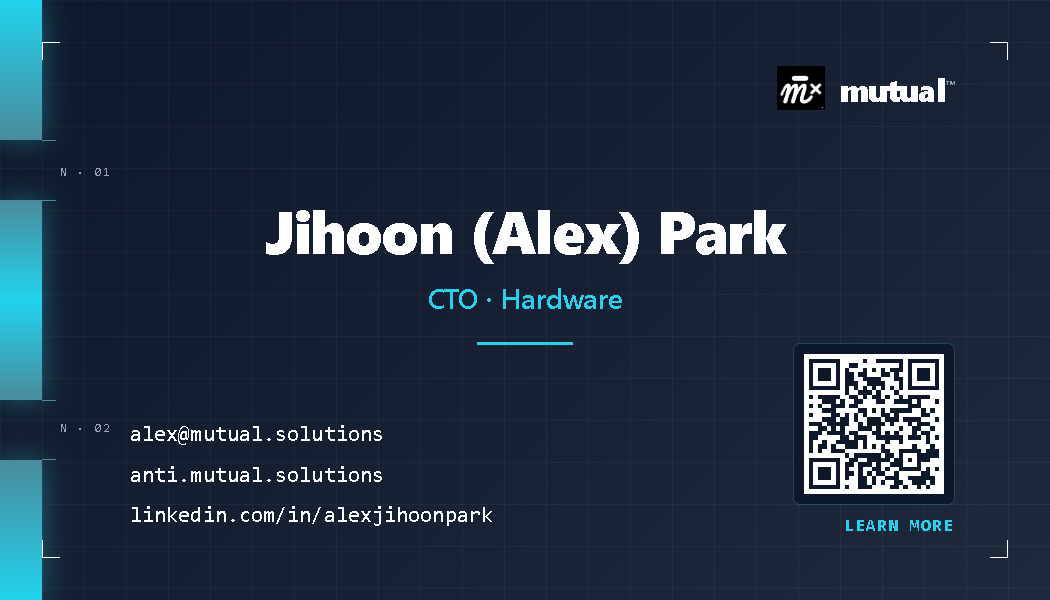
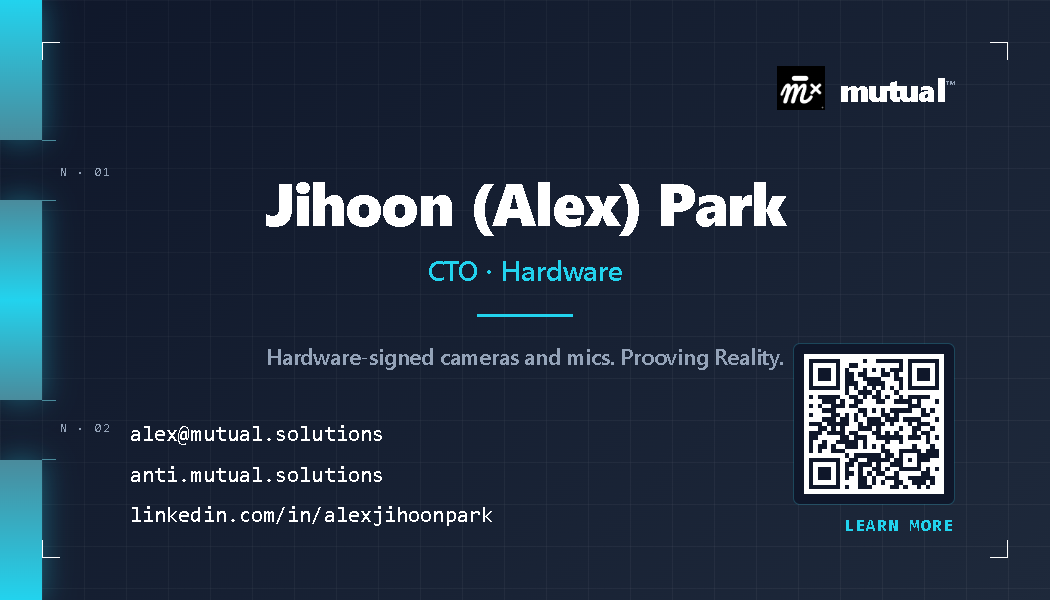
Lab Edge · re-add English slogan (Hardware-signed cameras and mics.)
User asked to keep a one-liner on the English side. Centered under the
divider:

  "Hardware-signed cameras and mics. Prooving Reality."

Korean back stays slogan-free.

Changed region(s): [[0.2438, 0.3, 0.7619, 0.54], [0.2438, 0.57, 0.7314, 0.63]]

diff --git a/.canva-build/v-tech-edge-capture-front-alex.html b/.canva-build/v-tech-edge-capture-front-alex.html
@@ -28,11 +28,12 @@ html,body{width:1050px;height:600px;background:#020617;font-family:'Inter','Sego
     <div style="font-weight:800;font-size:32px;letter-spacing:-0.8px;color:#fff">mutual<span style="font-size:13px;vertical-align:super;color:#94a3b8;font-weight:500">™</span></div>
   </div>
 
-  <!-- name block (English — centered, no slogan) -->
-  <div style="position:absolute;top:200px;left:0;right:0;text-align:center;z-index:2">
+  <!-- name block (English — centered, slogan on English side) -->
+  <div style="position:absolute;top:172px;left:0;right:0;text-align:center;z-index:2">
     <div style="font-weight:800;font-size:60px;letter-spacing:-1.8px;color:#fff;line-height:1">Jihoon (Alex) Park</div>
     <div style="margin-top:18px;font-weight:600;font-size:28px;color:#22d3ee;letter-spacing:-0.3px">CTO · Hardware</div>
     <div style="margin:26px auto 0;width:96px;height:3px;background:#22d3ee"></div>
+    <div style="margin-top:24px;padding:0 96px;font-weight:500;font-size:22px;color:#94a3b8;letter-spacing:-0.2px;line-height:1.4;font-family:'Playfair Display','Georgia','Times New Roman',serif;">Hardware-signed cameras and mics. Prooving Reality.</div>
   </div>
 
   <!-- contact mono block (URLs/emails are language-neutral identifiers) -->

diff --git a/.canva-build/v-tech-edge-fek1-front-alex.html b/.canva-build/v-tech-edge-fek1-front-alex.html
@@ -28,11 +28,12 @@ html,body{width:1050px;height:600px;background:#020617;font-family:'Inter','Sego
     <div style="font-weight:800;font-size:32px;letter-spacing:-0.8px;color:#fff">mutual<span style="font-size:13px;vertical-align:super;color:#94a3b8;font-weight:500">™</span></div>
   </div>
 
-  <!-- name block (English — centered, no slogan) -->
-  <div style="position:absolute;top:200px;left:0;right:0;text-align:center;z-index:2">
+  <!-- name block (English — centered, slogan on English side) -->
+  <div style="position:absolute;top:172px;left:0;right:0;text-align:center;z-index:2">
     <div style="font-weight:800;font-size:60px;letter-spacing:-1.8px;color:#fff;line-height:1">Jihoon (Alex) Park</div>
     <div style="margin-top:18px;font-weight:600;font-size:28px;color:#22d3ee;letter-spacing:-0.3px">CTO · Hardware</div>
     <div style="margin:26px auto 0;width:96px;height:3px;background:#22d3ee"></div>
+    <div style="margin-top:24px;padding:0 96px;font-weight:500;font-size:22px;color:#94a3b8;letter-spacing:-0.2px;line-height:1.4;font-family:'Playfair Display','Georgia','Times New Roman',serif;">Hardware-signed cameras and mics. Prooving Reality.</div>
   </div>
 
   <!-- contact mono block (URLs/emails are language-neutral identifiers) -->

diff --git a/.canva-build/v-tech-edge-capture-front-yejun.html b/.canva-build/v-tech-edge-capture-front-yejun.html
@@ -28,11 +28,12 @@ html,body{width:1050px;height:600px;background:#020617;font-family:'Inter','Sego
     <div style="font-weight:800;font-size:32px;letter-spacing:-0.8px;color:#fff">mutual<span style="font-size:13px;vertical-align:super;color:#94a3b8;font-weight:500">™</span></div>
   </div>
 
-  <!-- name block (English — centered, no slogan) -->
-  <div style="position:absolute;top:200px;left:0;right:0;text-align:center;z-index:2">
+  <!-- name block (English — centered, slogan on English side) -->
+  <div style="position:absolute;top:172px;left:0;right:0;text-align:center;z-index:2">
     <div style="font-weight:800;font-size:60px;letter-spacing:-1.8px;color:#fff;line-height:1">Yejun Jang</div>
     <div style="margin-top:18px;font-weight:600;font-size:28px;color:#22d3ee;letter-spacing:-0.3px">CEO · AI & Security</div>
     <div style="margin:26px auto 0;width:96px;height:3px;background:#22d3ee"></div>
+    <div style="margin-top:24px;padding:0 96px;font-weight:500;font-size:22px;color:#94a3b8;letter-spacing:-0.2px;line-height:1.4;font-family:'Playfair Display','Georgia','Times New Roman',serif;">Hardware-signed cameras and mics. Prooving Reality.</div>
   </div>
 
   <!-- contact mono block (URLs/emails are language-neutral identifiers) -->

diff --git a/.canva-build/v-tech-edge-fek1-front-yejun.html b/.canva-build/v-tech-edge-fek1-front-yejun.html
@@ -28,11 +28,12 @@ html,body{width:1050px;height:600px;background:#020617;font-family:'Inter','Sego
     <div style="font-weight:800;font-size:32px;letter-spacing:-0.8px;color:#fff">mutual<span style="font-size:13px;vertical-align:super;color:#94a3b8;font-weight:500">™</span></div>
   </div>
 
-  <!-- name block (English — centered, no slogan) -->
-  <div style="position:absolute;top:200px;left:0;right:0;text-align:center;z-index:2">
+  <!-- name block (English — centered, slogan on English side) -->
+  <div style="position:absolute;top:172px;left:0;right:0;text-align:center;z-index:2">
     <div style="font-weight:800;font-size:60px;letter-spacing:-1.8px;color:#fff;line-height:1">Yejun Jang</div>
     <div style="margin-top:18px;font-weight:600;font-size:28px;color:#22d3ee;letter-spacing:-0.3px">CEO · AI & Security</div>
     <div style="margin:26px auto 0;width:96px;height:3px;background:#22d3ee"></div>
+    <div style="margin-top:24px;padding:0 96px;font-weight:500;font-size:22px;color:#94a3b8;letter-spacing:-0.2px;line-height:1.4;font-family:'Playfair Display','Georgia','Times New Roman',serif;">Hardware-signed cameras and mics. Prooving Reality.</div>
   </div>
 
   <!-- contact mono block (URLs/emails are language-neutral identifiers) -->

diff --git a/.canva-build/v-tech-edge-dual-front-alex.html b/.canva-build/v-tech-edge-dual-front-alex.html
@@ -26,11 +26,12 @@ html,body{width:1050px;height:600px;background:#0f172a;font-family:'Inter','Sego
     <div style="font-weight:800;font-size:32px;letter-spacing:-0.8px;color:#fff">mutual<span style="font-size:13px;vertical-align:super;color:#94a3b8;font-weight:500">™</span></div>
   </div>
 
-  <!-- name block (English — centered, no slogan) -->
-  <div style="position:absolute;top:200px;left:0;right:0;text-align:center;z-index:2">
+  <!-- name block (English — centered, slogan on English side) -->
+  <div style="position:absolute;top:172px;left:0;right:0;text-align:center;z-index:2">
     <div style="font-weight:800;font-size:60px;letter-spacing:-1.8px;color:#fff;line-height:1">Jihoon (Alex) Park</div>
     <div style="margin-top:18px;font-weight:600;font-size:28px;color:#22d3ee;letter-spacing:-0.3px">CTO · Hardware</div>
     <div style="margin:26px auto 0;width:96px;height:3px;background:#22d3ee"></div>
+    <div style="margin-top:24px;padding:0 96px;font-weight:500;font-size:22px;color:#94a3b8;letter-spacing:-0.2px;line-height:1.4;">Hardware-signed cameras and mics. Prooving Reality.</div>
   </div>
 
   <!-- contact mono block (URLs/emails are language-neutral identifiers) -->

diff --git a/.canva-build/v-tech-edge-frame-front-alex.html b/.canva-build/v-tech-edge-frame-front-alex.html
@@ -31,11 +31,12 @@ html,body{width:1050px;height:600px;background:#0f172a;font-family:'Inter','Sego
     <div style="font-weight:800;font-size:32px;letter-spacing:-0.8px;color:#fff">mutual<span style="font-size:13px;vertical-align:super;color:#94a3b8;font-weight:500">™</span></div>
   </div>
 
-  <!-- name block (English — centered, no slogan) -->
-  <div style="position:absolute;top:200px;left:0;right:0;text-align:center;z-index:2">
+  <!-- name block (English — centered, slogan on English side) -->
+  <div style="position:absolute;top:172px;left:0;right:0;text-align:center;z-index:2">
     <div style="font-weight:800;font-size:60px;letter-spacing:-1.8px;color:#fff;line-height:1">Jihoon (Alex) Park</div>
     <div style="margin-top:18px;font-weight:600;font-size:28px;color:#22d3ee;letter-spacing:-0.3px">CTO · Hardware</div>
     <div style="margin:26px auto 0;width:96px;height:3px;background:#22d3ee"></div>
+    <div style="margin-top:24px;padding:0 96px;font-weight:500;font-size:22px;color:#94a3b8;letter-spacing:-0.2px;line-height:1.4;">Hardware-signed cameras and mics. Prooving Reality.</div>
   </div>
 
   <!-- contact mono block (URLs/emails are language-neutral identifiers) -->

diff --git a/.canva-build/v-tech-edge-halo-front-alex.html b/.canva-build/v-tech-edge-halo-front-alex.html
@@ -28,11 +28,12 @@ html,body{width:1050px;height:600px;background:#0f172a;font-family:'Inter','Sego
     <div style="font-weight:800;font-size:32px;letter-spacing:-0.8px;color:#fff">mutual<span style="font-size:13px;vertical-align:super;color:#94a3b8;font-weight:500">™</span></div>
   </div>
 
-  <!-- name block (English — centered, no slogan) -->
-  <div style="position:absolute;top:200px;left:0;right:0;text-align:center;z-index:2">
+  <!-- name block (English — centered, slogan on English side) -->
+  <div style="position:absolute;top:172px;left:0;right:0;text-align:center;z-index:2">
     <div style="font-weight:800;font-size:60px;letter-spacing:-1.8px;color:#fff;line-height:1">Jihoon (Alex) Park</div>
     <div style="margin-top:18px;font-weight:600;font-size:28px;color:#22d3ee;letter-spacing:-0.3px">CTO · Hardware</div>
     <div style="margin:26px auto 0;width:96px;height:3px;background:#22d3ee"></div>
+    <div style="margin-top:24px;padding:0 96px;font-weight:500;font-size:22px;color:#94a3b8;letter-spacing:-0.2px;line-height:1.4;">Hardware-signed cameras and mics. Prooving Reality.</div>
   </div>
 
   <!-- contact mono block (URLs/emails are language-neutral identifiers) -->

diff --git a/.canva-build/v-tech-edge-notch-front-alex.html b/.canva-build/v-tech-edge-notch-front-alex.html
@@ -34,11 +34,12 @@ html,body{width:1050px;height:600px;background:#0f172a;font-family:'Inter','Sego
     <div style="font-weight:800;font-size:32px;letter-spacing:-0.8px;color:#fff">mutual<span style="font-size:13px;vertical-align:super;color:#94a3b8;font-weight:500">™</span></div>
   </div>
 
-  <!-- name block (English — centered, no slogan) -->
-  <div style="position:absolute;top:200px;left:0;right:0;text-align:center;z-index:2">
+  <!-- name block (English — centered, slogan on English side) -->
+  <div style="position:absolute;top:172px;left:0;right:0;text-align:center;z-index:2">
     <div style="font-weight:800;font-size:60px;letter-spacing:-1.8px;color:#fff;line-height:1">Jihoon (Alex) Park</div>
     <div style="margin-top:18px;font-weight:600;font-size:28px;color:#22d3ee;letter-spacing:-0.3px">CTO · Hardware</div>
     <div style="margin:26px auto 0;width:96px;height:3px;background:#22d3ee"></div>
+    <div style="margin-top:24px;padding:0 96px;font-weight:500;font-size:22px;color:#94a3b8;letter-spacing:-0.2px;line-height:1.4;">Hardware-signed cameras and mics. Prooving Reality.</div>
   </div>
 
   <!-- contact mono block (URLs/emails are language-neutral identifiers) -->

diff --git a/.canva-build/v-tech-edge-pulse-front-alex.html b/.canva-build/v-tech-edge-pulse-front-alex.html
@@ -24,11 +24,12 @@ html,body{width:1050px;height:600px;background:#0f172a;font-family:'Inter','Sego
     <div style="font-weight:800;font-size:32px;letter-spacing:-0.8px;color:#fff">mutual<span style="font-size:13px;vertical-align:super;color:#94a3b8;font-weight:500">™</span></div>
   </div>
 
-  <!-- name block (English — centered, no slogan) -->
-  <div style="position:absolute;top:200px;left:0;right:0;text-align:center;z-index:2">
+  <!-- name block (English — centered, slogan on English side) -->
+  <div style="position:absolute;top:172px;left:0;right:0;text-align:center;z-index:2">
     <div style="font-weight:800;font-size:60px;letter-spacing:-1.8px;color:#fff;line-height:1">Jihoon (Alex) Park</div>
     <div style="margin-top:18px;font-weight:600;font-size:28px;color:#22d3ee;letter-spacing:-0.3px">CTO · Hardware</div>
     <div style="margin:26px auto 0;width:96px;height:3px;background:#22d3ee"></div>
+    <div style="margin-top:24px;padding:0 96px;font-weight:500;font-size:22px;color:#94a3b8;letter-spacing:-0.2px;line-height:1.4;">Hardware-signed cameras and mics. Prooving Reality.</div>
   </div>
 
   <!-- contact mono block (URLs/emails are language-neutral identifiers) -->

diff --git a/.canva-build/v-tech-edge-stack-front-alex.html b/.canva-build/v-tech-edge-stack-front-alex.html
@@ -24,11 +24,12 @@ html,body{width:1050px;height:600px;background:#0f172a;font-family:'Inter','Sego
     <div style="font-weight:800;font-size:32px;letter-spacing:-0.8px;color:#fff">mutual<span style="font-size:13px;vertical-align:super;color:#94a3b8;font-weight:500">™</span></div>
   </div>
 
-  <!-- name block (English — centered, no slogan) -->
-  <div style="position:absolute;top:200px;left:0;right:0;text-align:center;z-index:2">
+  <!-- name block (English — centered, slogan on English side) -->
+  <div style="position:absolute;top:172px;left:0;right:0;text-align:center;z-index:2">
     <div style="font-weight:800;font-size:60px;letter-spacing:-1.8px;color:#fff;line-height:1">Jihoon (Alex) Park</div>
     <div style="margin-top:18px;font-weight:600;font-size:28px;color:#22d3ee;letter-spacing:-0.3px">CTO · Hardware</div>
     <div style="margin:26px auto 0;width:96px;height:3px;background:#22d3ee"></div>
+    <div style="margin-top:24px;padding:0 96px;font-weight:500;font-size:22px;color:#94a3b8;letter-spacing:-0.2px;line-height:1.4;">Hardware-signed cameras and mics. Prooving Reality.</div>
   </div>
 
   <!-- contact mono block (URLs/emails are language-neutral identifiers) -->

diff --git a/.canva-build/v-tech-edge-dual-front-yejun.html b/.canva-build/v-tech-edge-dual-front-yejun.html
@@ -26,11 +26,12 @@ html,body{width:1050px;height:600px;background:#0f172a;font-family:'Inter','Sego
     <div style="font-weight:800;font-size:32px;letter-spacing:-0.8px;color:#fff">mutual<span style="font-size:13px;vertical-align:super;color:#94a3b8;font-weight:500">™</span></div>
   </div>
 
-  <!-- name block (English — centered, no slogan) -->
-  <div style="position:absolute;top:200px;left:0;right:0;text-align:center;z-index:2">
+  <!-- name block (English — centered, slogan on English side) -->
+  <div style="position:absolute;top:172px;left:0;right:0;text-align:center;z-index:2">
     <div style="font-weight:800;font-size:60px;letter-spacing:-1.8px;color:#fff;line-height:1">Yejun Jang</div>
     <div style="margin-top:18px;font-weight:600;font-size:28px;color:#22d3ee;letter-spacing:-0.3px">CEO · AI & Security</div>
     <div style="margin:26px auto 0;width:96px;height:3px;background:#22d3ee"></div>
+    <div style="margin-top:24px;padding:0 96px;font-weight:500;font-size:22px;color:#94a3b8;letter-spacing:-0.2px;line-height:1.4;">Hardware-signed cameras and mics. Prooving Reality.</div>
   </div>
 
   <!-- contact mono block (URLs/emails are language-neutral identifiers) -->

diff --git a/.canva-build/v-tech-edge-frame-front-yejun.html b/.canva-build/v-tech-edge-frame-front-yejun.html
@@ -31,11 +31,12 @@ html,body{width:1050px;height:600px;background:#0f172a;font-family:'Inter','Sego
     <div style="font-weight:800;font-size:32px;letter-spacing:-0.8px;color:#fff">mutual<span style="font-size:13px;vertical-align:super;color:#94a3b8;font-weight:500">™</span></div>
   </div>
 
-  <!-- name block (English — centered, no slogan) -->
-  <div style="position:absolute;top:200px;left:0;right:0;text-align:center;z-index:2">
+  <!-- name block (English — centered, slogan on English side) -->
+  <div style="position:absolute;top:172px;left:0;right:0;text-align:center;z-index:2">
     <div style="font-weight:800;font-size:60px;letter-spacing:-1.8px;color:#fff;line-height:1">Yejun Jang</div>
     <div style="margin-top:18px;font-weight:600;font-size:28px;color:#22d3ee;letter-spacing:-0.3px">CEO · AI & Security</div>
     <div style="margin:26px auto 0;width:96px;height:3px;background:#22d3ee"></div>
+    <div style="margin-top:24px;padding:0 96px;font-weight:500;font-size:22px;color:#94a3b8;letter-spacing:-0.2px;line-height:1.4;">Hardware-signed cameras and mics. Prooving Reality.</div>
   </div>
 
   <!-- contact mono block (URLs/emails are language-neutral identifiers) -->
